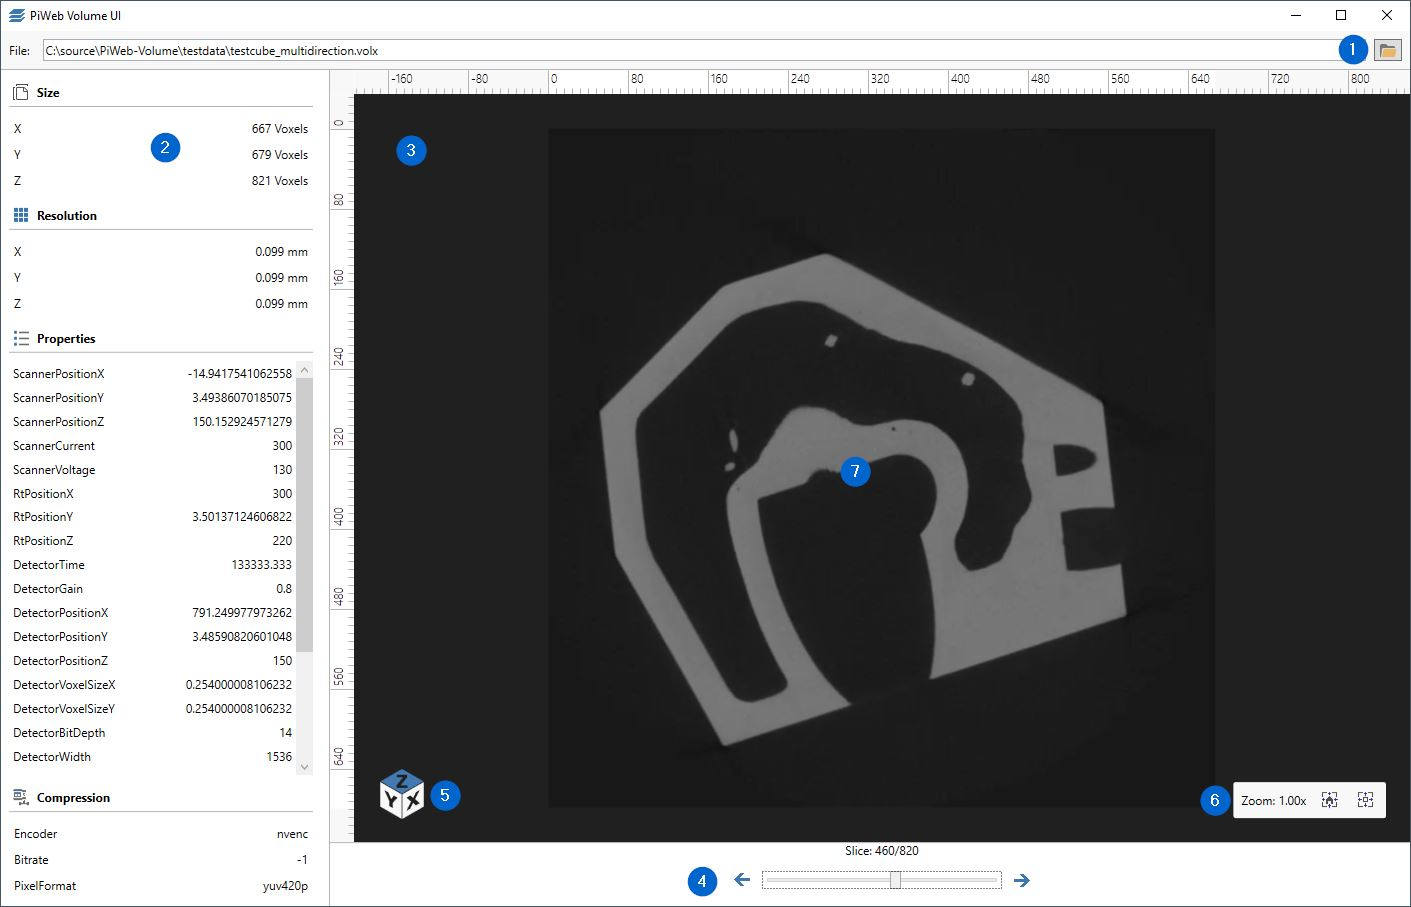
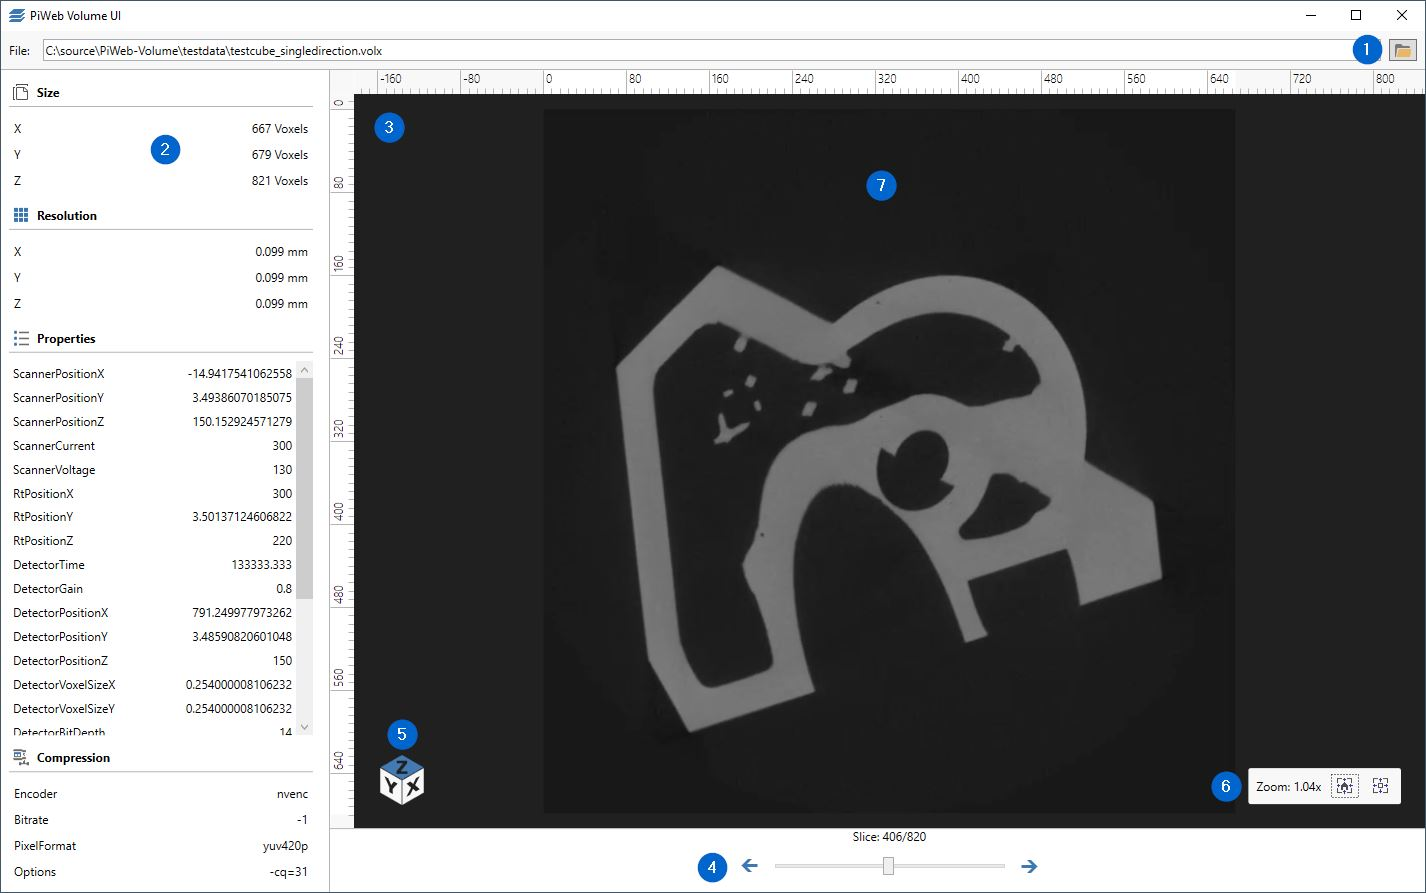
feat: added a field for the encoder options in the volume ui

diff --git a/src/PiWeb.Volume.UI/View/VolumeView.xaml b/src/PiWeb.Volume.UI/View/VolumeView.xaml
@@ -5,7 +5,6 @@
              xmlns:d="http://schemas.microsoft.com/expression/blend/2008"
              xmlns:viewModel="clr-namespace:Zeiss.IMT.PiWeb.Volume.UI.ViewModel"
              xmlns:components="clr-namespace:Zeiss.IMT.PiWeb.Volume.UI.Components"
-             xmlns:svgc="http://sharpvectors.codeplex.com/svgc/"
              xmlns:volume="clr-namespace:Zeiss.IMT.PiWeb.Volume;assembly=PiWeb.Volume"
              mc:Ignorable="d"
              d:DataContext="{d:DesignInstance viewModel:VolumeViewModel}"
@@ -43,15 +42,15 @@
                 <StackPanel DockPanel.Dock="Right">
                     <HeaderedContentControl Header="X">
                         <TextBlock VerticalAlignment="Center" HorizontalAlignment="Right"
-                                   Text="{Binding Volume.Metadata.SizeX, UpdateSourceTrigger=PropertyChanged, StringFormat={}{0} Voxels}" />
+                                   Text="{Binding Volume.Metadata.SizeX, StringFormat={}{0} Voxels}" />
                     </HeaderedContentControl>
                     <HeaderedContentControl Header="Y">
                         <TextBlock VerticalAlignment="Center" HorizontalAlignment="Right"
-                                   Text="{Binding Volume.Metadata.SizeY, UpdateSourceTrigger=PropertyChanged, StringFormat={}{0} Voxels}" />
+                                   Text="{Binding Volume.Metadata.SizeY, StringFormat={}{0} Voxels}" />
                     </HeaderedContentControl>
                     <HeaderedContentControl Header="Z">
                         <TextBlock VerticalAlignment="Center" HorizontalAlignment="Right"
-                                   Text="{Binding Volume.Metadata.SizeZ, UpdateSourceTrigger=PropertyChanged, StringFormat={}{0} Voxels}" />
+                                   Text="{Binding Volume.Metadata.SizeZ, StringFormat={}{0} Voxels}" />
                     </HeaderedContentControl>
                 </StackPanel>
             </DockPanel>
@@ -70,15 +69,15 @@
                 <StackPanel DockPanel.Dock="Right">
                     <HeaderedContentControl Header="X">
                         <TextBlock VerticalAlignment="Center" HorizontalAlignment="Right"
-                                   Text="{Binding Volume.Metadata.ResolutionX, UpdateSourceTrigger=PropertyChanged, StringFormat={}{0:F3} mm}" />
+                                   Text="{Binding Volume.Metadata.ResolutionX, StringFormat={}{0:F3} mm}" />
                     </HeaderedContentControl>
                     <HeaderedContentControl Header="Y">
                         <TextBlock VerticalAlignment="Center" HorizontalAlignment="Right"
-                                   Text="{Binding Volume.Metadata.ResolutionY, UpdateSourceTrigger=PropertyChanged, StringFormat={}{0:F3} mm}" />
+                                   Text="{Binding Volume.Metadata.ResolutionY, StringFormat={}{0:F3} mm}" />
                     </HeaderedContentControl>
                     <HeaderedContentControl Header="Z">
                         <TextBlock VerticalAlignment="Center" HorizontalAlignment="Right"
-                                   Text="{Binding Volume.Metadata.ResolutionZ, UpdateSourceTrigger=PropertyChanged, StringFormat={}{0:F3} mm}" />
+                                   Text="{Binding Volume.Metadata.ResolutionZ, StringFormat={}{0:F3} mm}" />
                     </HeaderedContentControl>
                 </StackPanel>
             </DockPanel>
@@ -127,16 +126,21 @@
             <StackPanel Grid.Row="7" Margin="8" DockPanel.Dock="Right">
                 <HeaderedContentControl Header="Encoder">
                     <TextBlock VerticalAlignment="Center" HorizontalAlignment="Right"
-                               Text="{Binding Volume.CompressionOptions.Encoder, UpdateSourceTrigger=PropertyChanged}" />
+                               Text="{Binding Volume.CompressionOptions.Encoder}" />
                 </HeaderedContentControl>
                 <HeaderedContentControl Header="Bitrate">
                     <TextBlock VerticalAlignment="Center" HorizontalAlignment="Right"
-                               Text="{Binding Volume.CompressionOptions.Bitrate, UpdateSourceTrigger=PropertyChanged}" />
+                               Text="{Binding Volume.CompressionOptions.Bitrate}" />
                 </HeaderedContentControl>
                 <HeaderedContentControl Header="PixelFormat">
                     <TextBlock VerticalAlignment="Center" HorizontalAlignment="Right"
-                               Text="{Binding Volume.CompressionOptions.PixelFormat, UpdateSourceTrigger=PropertyChanged}" />
+                               Text="{Binding Volume.CompressionOptions.PixelFormat}" />
                 </HeaderedContentControl>
+                <HeaderedContentControl Header="Options">
+                    <TextBlock VerticalAlignment="Center" HorizontalAlignment="Right"
+                               Text="{Binding Volume.CompressionOptions.EncoderOptions, Converter={StaticResource DictionaryToStringConverter}}" />
+                </HeaderedContentControl>
+                
             </StackPanel>
         </Grid>
 
@@ -282,8 +286,8 @@
                 <TextBlock Grid.Row="2" Grid.Column="1" HorizontalAlignment="Center" Margin="0,0,0,4">
                     <TextBlock.Text>
                         <MultiBinding StringFormat="{}Slice: {0}/{1}">
-                            <Binding Path="SelectedLayerIndex" UpdateSourceTrigger="PropertyChanged" />
-                            <Binding Path="MaxLayer" UpdateSourceTrigger="PropertyChanged" />
+                            <Binding Path="SelectedLayerIndex" />
+                            <Binding Path="MaxLayer" />
                         </MultiBinding>
                     </TextBlock.Text>
                 </TextBlock>

diff --git a/src/PiWeb.Volume.UI/App.xaml b/src/PiWeb.Volume.UI/App.xaml
@@ -13,7 +13,7 @@
             <converter:BooleanToVisibilityConverter Invert="True" x:Key="InvertedBooleanToVisibilityConverter" />
             <converter:IsNotNullConverter x:Key="IsNotNullConverter"/> 
             <converter:IsEqualConverter x:Key="IsEqualConverter"/> 
-            
+            <converter:DictionaryToStringConverter x:Key="DictionaryToStringConverter"/>
         </ResourceDictionary>
     </Application.Resources>
 </Application>

diff --git a/src/PiWeb.Volume.UI/Converter/DictionaryToStringConverter.cs b/src/PiWeb.Volume.UI/Converter/DictionaryToStringConverter.cs
@@ -1,0 +1,42 @@
+#region copyright
+
+/* * * * * * * * * * * * * * * * * * * * * * * * * */
+/* Carl Zeiss IMT (IZfM Dresden)                   */
+/* Softwaresystem PiWeb                            */
+/* (c) Carl Zeiss 2019                             */
+/* * * * * * * * * * * * * * * * * * * * * * * * * */
+
+#endregion
+
+namespace Zeiss.IMT.PiWeb.Volume.UI.Converter
+{
+    #region usings
+
+    using System;
+    using System.Collections;
+    using System.Globalization;
+    using System.Linq;
+    using System.Windows.Data;
+
+    #endregion
+
+    public class DictionaryToStringConverter : IValueConverter
+    {
+        #region interface IValueConverter
+
+        public object Convert( object value, Type targetType, object parameter, CultureInfo culture )
+        {
+            if( value is IDictionary dictionary )
+                return string.Join( ";", dictionary.Keys.OfType<object>().Select( key => $"-{key}={dictionary[ key ]}" ) );
+
+            return string.Empty;
+        }
+
+        public object ConvertBack( object value, Type targetType, object parameter, CultureInfo culture )
+        {
+            throw new NotImplementedException();
+        }
+
+        #endregion
+    }
+}
